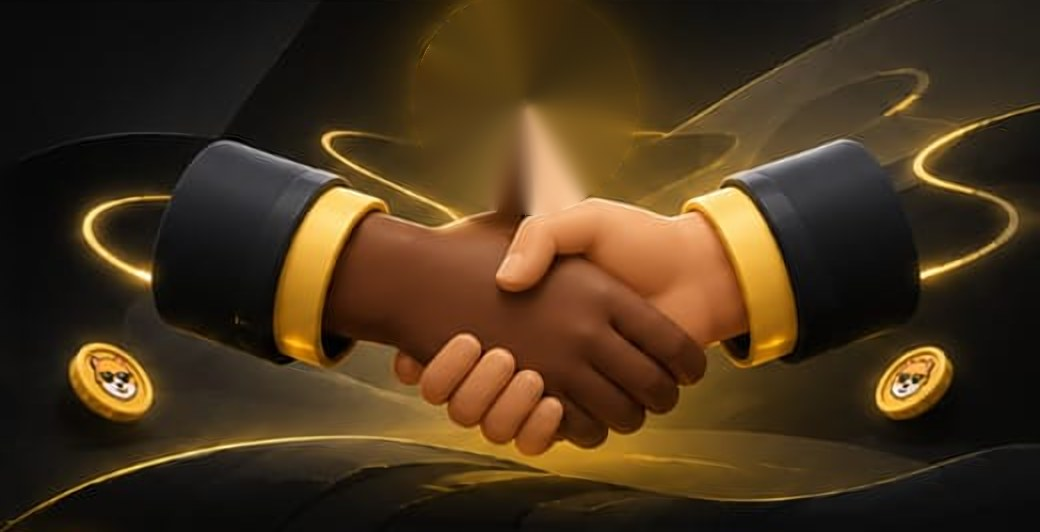
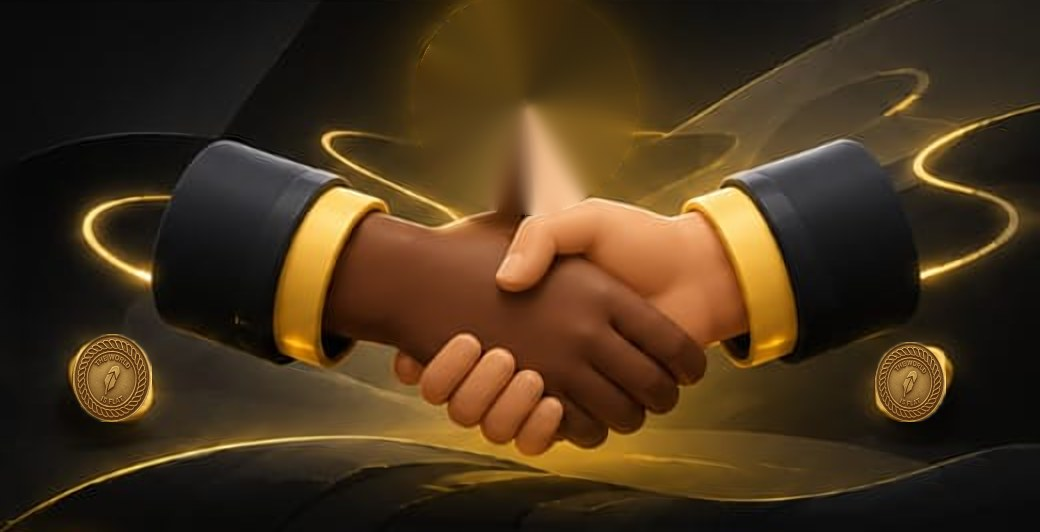
The real $WIF (World is Flat) coin in place of the mockups' shiba coins

Changed region(s): [[0.0615, 0.6316, 0.1538, 0.812], [0.8308, 0.6316, 0.9231, 0.812]]

diff --git a/web/design/cut.py b/web/design/cut.py
@@ -18,6 +18,8 @@ Patches, in design pixels:
   disc  - circles painted out (the $WIF coin, which the page floats on its own)
 
 A cutout is cut from the original with its circle as the only opaque part (PNG).
+coins: the mockups' shiba coins, replaced by the real $WIF (World is Flat) coin from design/wif-coin.png
+(DexScreener's image for 0x5173…4773), tinted to the frame's gold light, as ellipses (cx, cy, rx, ry).
 A keyed piece is a small icon on a dark card, cut with the dark keyed out (PNG), so it sits on any card.
 """
 import os
@@ -70,6 +72,7 @@ DESIGNS = {
               ring(697, 476, 22), (725, 458, 878, 532),
               (980, 364, 1120, 392), (950, 442, 1066, 488), (1094, 442, 1216, 488), (950, 532, 1066, 578), (1094, 532, 1216, 578)],
         disc=[(1022.5, 137.5, 56)],
+        coins=[(1022.5, 137.5, 54, 54), (816, 275, 20, 22), (1215, 277, 18, 20), (495, 395, 36, 39), (726, 413, 14, 15), (837, 410, 16, 17)],
         cutouts={'coin': (1022.5, 137.5, 54)},
         pieces={'vouch': FRAME, 'hands': (760, 86, 1280, 352), 'vstep-1': (55, 355, 316, 590), 'vstep-2': (368, 355, 606, 590),
                 'vstep-3': (656, 355, 893, 590), 'rewards': (927, 351, 1233, 590)},
@@ -113,6 +116,30 @@ DESIGNS = {
     'app-borrow': dict(pieces={'art-borrow': (700, 86, 1280, 250)}, keyed={'ic-usdg': (245, 310, 294, 359)}),
     'app-repay': dict(text=[((640, 150, 662, 212), 40)], pieces={'art-repay': (640, 86, 1280, 265)}),
 }
+
+
+WIF = cv2.imread(os.path.join(HERE, 'wif-coin.png'), cv2.IMREAD_UNCHANGED)
+
+
+def put_coins(im, s, coins):
+    for cx, cy, rx, ry in coins:
+        w, h = max(2, round(2 * rx * s)), max(2, round(2 * ry * s))
+        coin = cv2.resize(WIF, (w, h), interpolation=cv2.INTER_AREA).astype(np.float32)
+        rgb, a = coin[..., :3], coin[..., 3:] / 255
+        # the coin's light and shade, mapped onto the design's gold, mixed with its own colour
+        lum = (rgb @ np.array([.114, .587, .299], np.float32))[..., None] / 255
+        lum = np.clip((lum - .12) / .55, 0, 1)
+        dark, light = np.array([10, 52, 104], np.float32), np.array([110, 214, 255], np.float32)
+        gold = dark + (light - dark) * lum
+        rgb = gold * .75 + rgb * .25
+        # a soft edge, then over the old coin (which the mask covers fully)
+        m = np.zeros((h, w), np.float32)
+        cv2.ellipse(m, (w // 2, h // 2), (w // 2 - 1, h // 2 - 1), 0, 0, 360, 1, -1)
+        m = cv2.GaussianBlur(m, (0, 0), max(.6, s * .6))[..., None]
+        x0, y0 = round(cx * s) - w // 2, round(cy * s) - h // 2
+        reg = im[y0:y0 + h, x0:x0 + w].astype(np.float32)
+        im[y0:y0 + h, x0:x0 + w] = (reg * (1 - m) + rgb * m).clip(0, 255).astype(np.uint8)
+    return im
 
 
 def clean(im, s, text=(), whole=(), flat=(), disc=()):
@@ -174,6 +201,7 @@ for src, d in DESIGNS.items():
     big = os.path.join(SRC2X, src + '.png')
     s = 2 if os.path.exists(big) else 1
     raw = cv2.imread(big if s > 1 else os.path.join(SRC, src + '.jpg'))
+    raw = put_coins(raw, s, d.get('coins', ()))
     for name, box in d.get('rawpieces', {}).items():
         save(raw, s, name, box); n += 1
     for name, box in d.get('keyed', {}).items():
